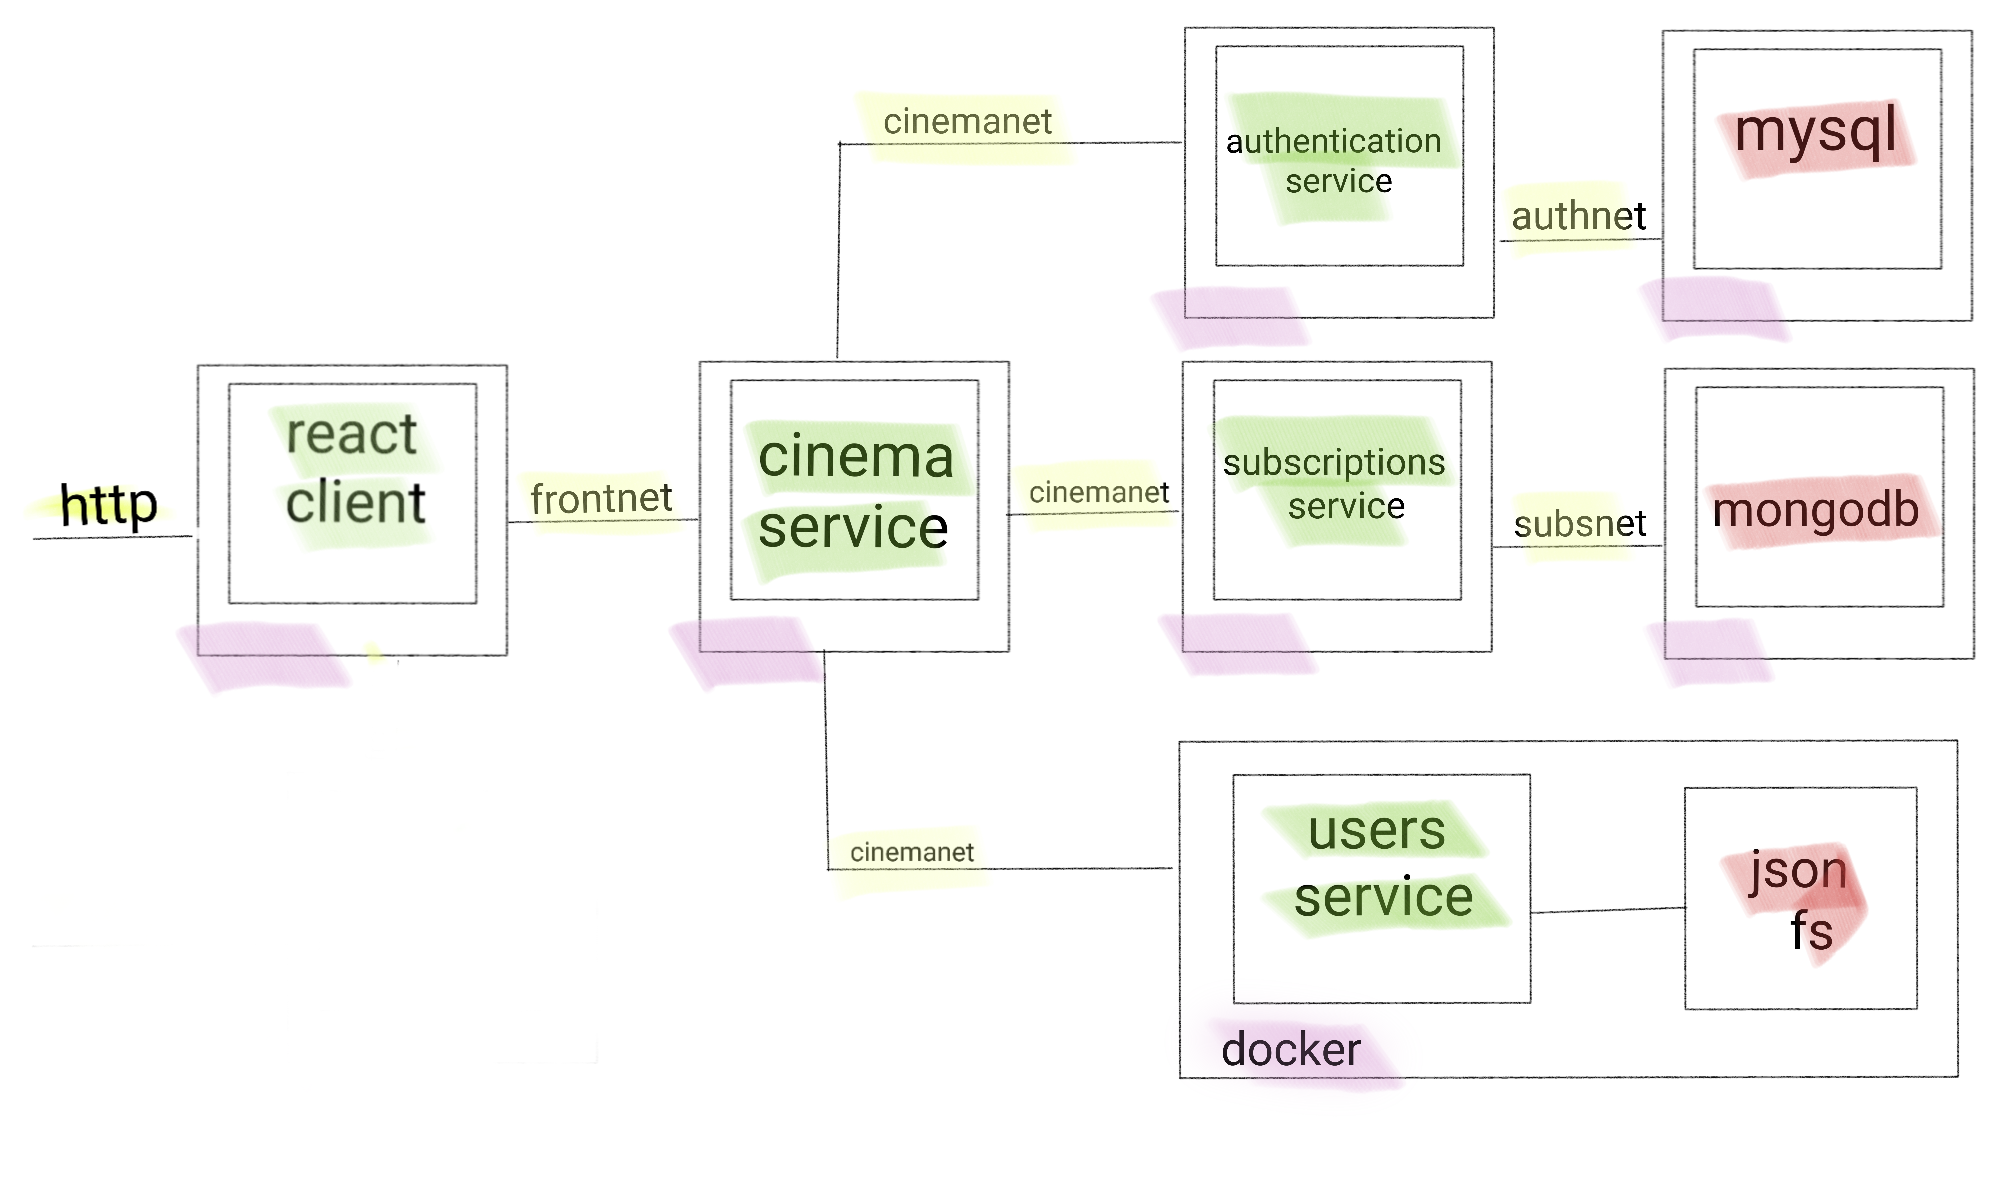
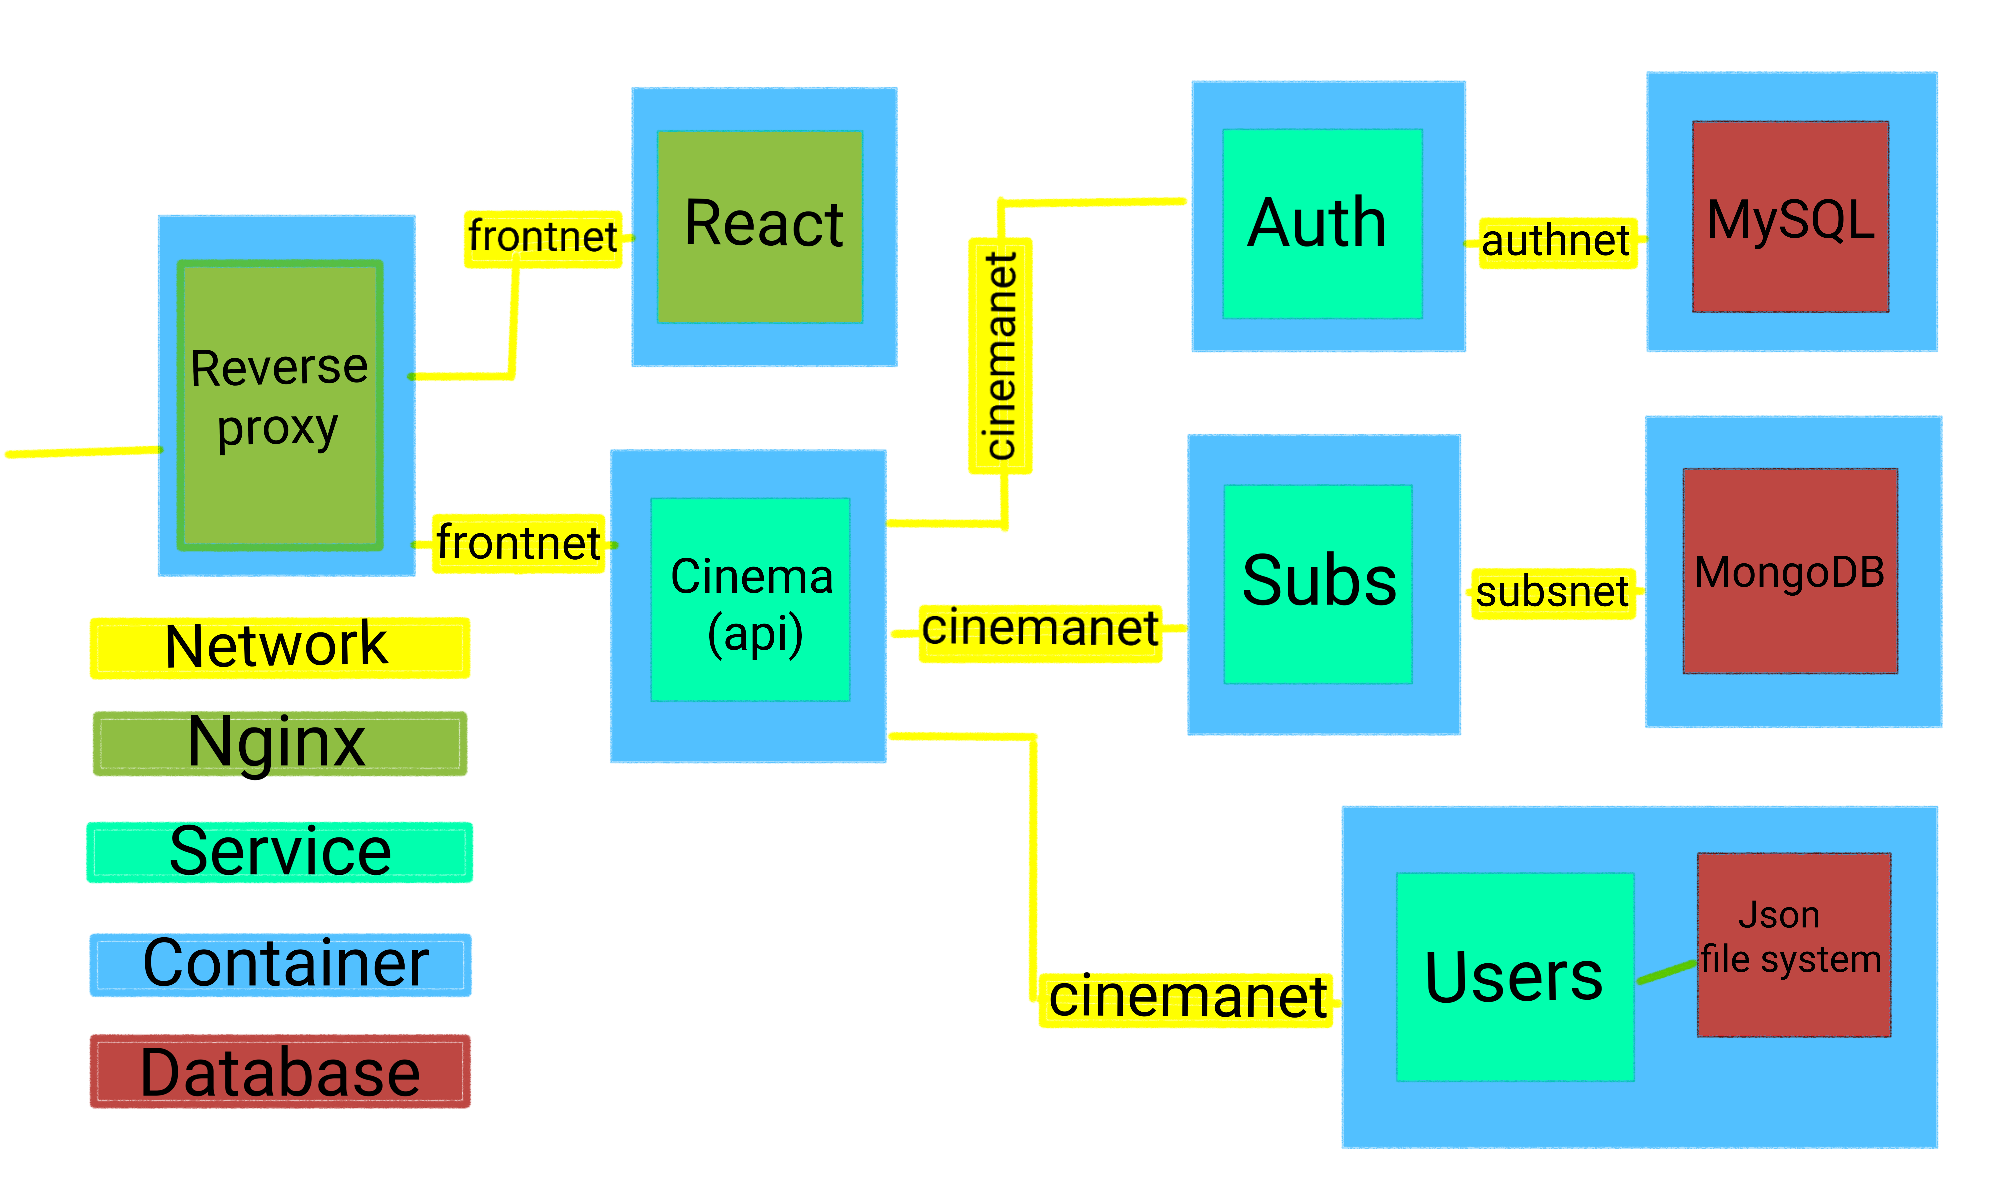
adding reverse proxy

diff --git a/react_client/src/constants/urls.js b/react_client/src/constants/urls.js
@@ -1,10 +1,10 @@
-export const LOGIN         = 'http://172.25.0.20:3000/auth/login';   // ip addr are based on docker-compose
-export const SIGN_UP       = 'http://172.25.0.20:3000/auth/signup';
-export const LOGOUT        = 'http://172.25.0.20:3000/auth/logout';
-export const PROTECTED     = 'http://172.25.0.20:3000/auth/protected';
-export const AUTH          = 'http://172.25.0.20:3000/auth';
-export const DETAILS       = "http://172.25.0.20:3000/details";
-export const PERMISSIONS   = "http://172.25.0.20:3000/permissions";
-export const MEMBERS       = "http://172.25.0.20:3000/members";
-export const MOVIES        = "http://172.25.0.20:3000/movies";
-export const SUBSCRIPTIONS = "http://172.25.0.20:3000/subscriptions";
+export const LOGIN         = '/cinema-svc/auth/login';   // ip addr are based on docker-compose
+export const SIGN_UP       = '/cinema-svc/auth/signup';
+export const LOGOUT        = '/cinema-svc/auth/logout';
+export const PROTECTED     = '/cinema-svc/auth/protected';
+export const AUTH          = '/cinema-svc/auth';
+export const DETAILS       = "/cinema-svc/details";
+export const PERMISSIONS   = "/cinema-svc/permissions";
+export const MEMBERS       = "/cinema-svc/members";
+export const MOVIES        = "/cinema-svc/movies";
+export const SUBSCRIPTIONS = "/cinema-svc/subscriptions";

diff --git a/react_client/src/App.js b/react_client/src/App.js
@@ -10,7 +10,7 @@ import Dashboard from './pages/dashboard';
 
 function App() {
   return (
-    <BrowserRouter>
+    <BrowserRouter basename="/app">
     <Switch>
     <Route exact path={ ROUTE.LOGIN }   component={ Login }  />
     <Route exact path={ ROUTE.SIGN_UP } component={ Signup } />
